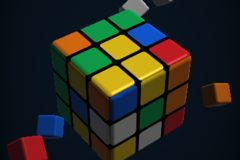
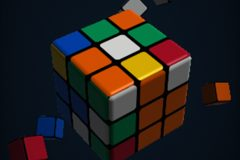
v86: Color Cubes mit echtem Farbschema (Weiss/Gelb, Gruen/Blau, Rot/Orange), gueltig gescrambelter Wuerfel, offizielle Rubik-Farben, kleine Wuerfel mit Stickern
Claude-Session: https://claude.ai/code/session_01RSK1yx3rN5ViHQG4MisGpT

diff --git a/index.html b/index.html
@@ -1106,7 +1106,7 @@ mat3 rY(float q){float c=cos(q),s=sin(q);return mat3(c,0.,s,0.,1.,0.,-s,0.,c);}
 float rbx(vec3 p,vec3 bb,float r){vec3 q=abs(p)-bb+r;return length(max(q,0.))+min(max(q.x,max(q.y,q.z)),0.)-r;}
 float mx3(vec3 p){return max(p.x,max(p.y,p.z));}
 mat3 RB;
-vec3 pal(float k){k=floor(k*6.);if(k<1.)return vec3(.95,.95,.93);if(k<2.)return vec3(1.,.83,.08);if(k<3.)return vec3(.9,.1,.13);if(k<4.)return vec3(1.,.45,.05);if(k<5.)return vec3(.06,.36,.95);return vec3(.05,.7,.3);}
+vec3 pal(float k){k=floor(k*6.);if(k<1.)return vec3(.97,.97,.96);if(k<2.)return vec3(1.,.78,.0);if(k<3.)return vec3(.72,.04,.12);if(k<4.)return vec3(1.,.33,.0);if(k<5.)return vec3(0.,.25,.75);return vec3(0.,.58,.3);}
 float big(vec3 p){vec3 q=RB*p;float d=rbx(q,vec3(.9),.12);vec3 aq=abs(q);vec3 gg=abs(aq-.3);float g=min(gg.x,min(gg.y,gg.z))-.024;float reg=max(g,.83-mx3(aq));return max(d,-reg);}
 vec4 sm(float k){float an=t*.16+k*1.2566;float rr=1.75+.3*sin(k*1.7);return vec4(cos(an)*rr,sin(t*.27+k*1.9)*1.7,sin(an)*rr-.4,.2+.07*h(vec2(k,3.)));}
 float smalls(vec3 p,out float id){float d=1e5;id=0.;for(int i=0;i<5;i++){float k=float(i);vec4 s=sm(k);vec3 q=rX(t*.35+k)*rY(t*.28+k*2.)*(p-s.xyz);float e=rbx(q,vec3(s.w),.05);if(e<d){d=e;id=k;}}return d;}
@@ -1124,8 +1124,8 @@ if(hit>.5){vec3 p=ro+rd*tt,nn=nr(p);vec3 L=normalize(vec3(.55,.8,.6));float df=c
   vec2 tc;float fi;if(aq.x>=aq.y&&aq.x>=aq.z){tc=q.yz;fi=q.x>0.?0.:1.;}else if(aq.y>=aq.z){tc=q.xz;fi=q.y>0.?2.:3.;}else{tc=q.xy;fi=q.z>0.?4.:5.;}
   vec2 ce=floor((tc+.9)/.6),lc=(tc+.9)-ce*.6-.3;vec2 qd=abs(lc)-.2;float sd=length(max(qd,0.))+min(max(qd.x,qd.y),0.)-.06;
   float stk=smoothstep(.012,-.004,sd)*step(.86,mx3(aq));gin=1.-stk;
-  vec3 fc=pal(h(ce*1.31+vec2(fi*7.3,fi*2.9)));base=mix(vec3(.015,.016,.02),fc,stk);}
- else base=pal(fract(id*.37+.05));
+  float fv=fi<.5?7903308.:fi<1.5?1007672.:fi<2.5?6571101.:fi<3.5?6782065.:fi<4.5?528461.:3349013.;float pw=pow(6.,ce.x+3.*ce.y);float qq=floor((fv+.5)/pw);float cc=qq-6.*floor((qq+.5)/6.);vec3 fc=pal((cc+.5)/6.);base=mix(vec3(.015,.016,.02),fc,stk);}
+ else{vec4 s4=sm(id);vec3 q2=rX(t*.35+id)*rY(t*.28+id*2.)*(p-s4.xyz);vec3 a2=abs(q2);vec2 t2=a2.x>=a2.y&&a2.x>=a2.z?q2.yz:a2.y>=a2.z?q2.xz:q2.xy;vec2 d2=abs(t2)-s4.w*.72;float sd2=length(max(d2,0.))+min(max(d2.x,d2.y),0.)-s4.w*.14;float st2=smoothstep(.01,-.004,sd2);gin=1.-st2;base=mix(vec3(.015,.016,.02),pal(fract(id*.37+.05)),st2);}
  float sp=pow(clamp(dot(reflect(-L,nn),-rd),0.,1.),28.);
  vec3 col=base*(.16+.84*df)+vec3(sp*.3)*(1.-gin)+vec3(.6,.7,.9)*rim*.18*(1.-gin);
  float fade=id<0.?1.:.85;c=mix(bg,col,fade);}

diff --git a/sw.js b/sw.js
@@ -1,4 +1,4 @@
-const C='nobtime-v85';
+const C='nobtime-v86';
 self.addEventListener('install',e=>{e.waitUntil(caches.open(C).then(c=>c.addAll(['./','index.html','manifest.webmanifest','icon-192.png','icon-512.png'])).catch(()=>{}));self.skipWaiting()});
 self.addEventListener('activate',e=>e.waitUntil(caches.keys().then(k=>Promise.all(k.filter(x=>x!==C).map(x=>caches.delete(x)))).then(()=>clients.claim())));
 self.addEventListener('fetch',e=>{if(e.request.method!=='GET'||new URL(e.request.url).pathname.startsWith('/api/'))return;e.respondWith(fetch(e.request,{cache:'no-store'}).then(x=>{if(x&&(x.ok||x.type==='opaque')){const y=x.clone();caches.open(C).then(c=>c.put(e.request,y))}return x}).catch(()=>caches.match(e.request)))});
